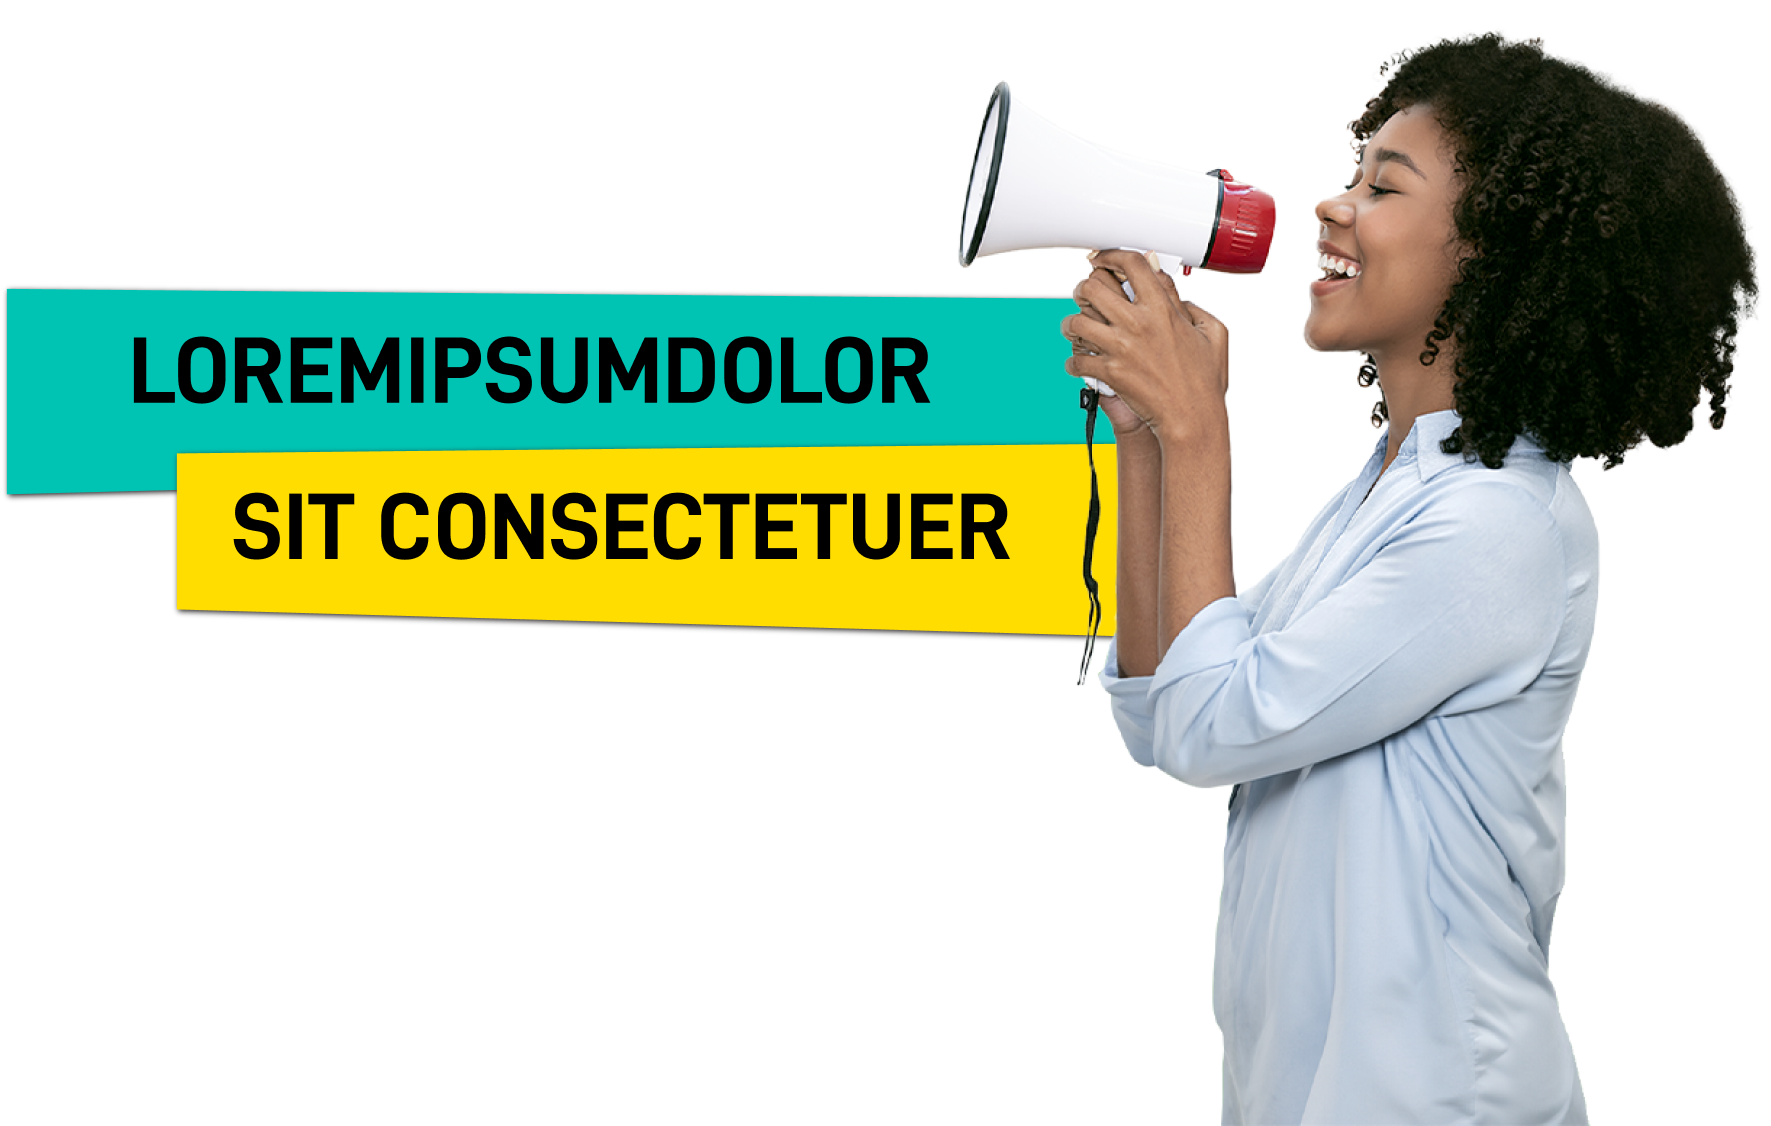
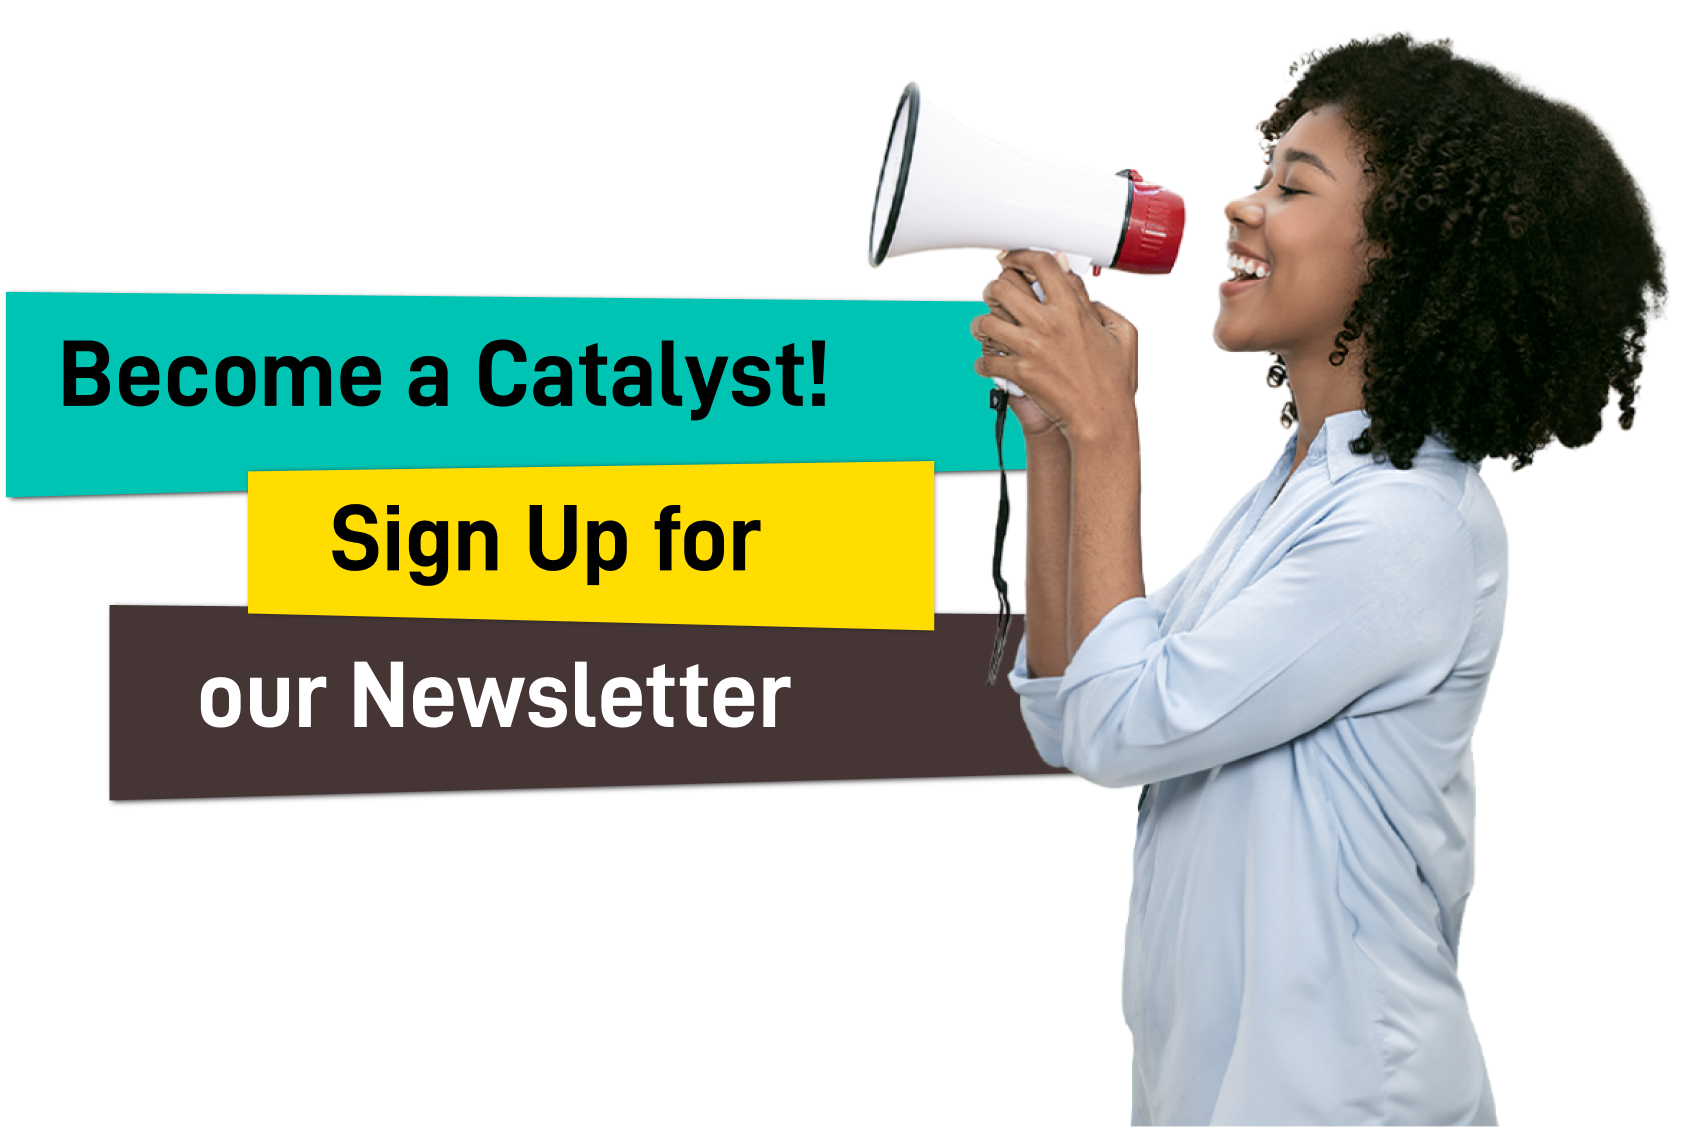
landing page clean-up

diff --git a/src/components/TheLanding.vue b/src/components/TheLanding.vue
@@ -3,34 +3,28 @@
     <main>
       <section
         id="mission"
-        class="pb-10 px-20 bg-[#943700] bg-cover bg-center relative overflow-hidden"
+        class="pb-10 px-20 bg-brown-primary bg-cover bg-center relative overflow-hidden"
       >
-        <div class="mx-auto">
+        <div class="">
           <img
-            src="@/assets/images/Bold_Unapologetic_Africaled.png"
+            src="@/assets/images/Catalyst.svg"
             alt="Title Image"
             class="block relative px-4 py-2 z-10"
           />
         </div>
-        <!-- <div class="">
-          <img
-            src="@/assets/images/Bold_Unapologetic_Africaled.png"
-            alt="Title Image"
-            class="block relative px-4 py-2 z-10"
-          />
-        </div> -->
-        <div class="flex justify-center my-8">
-          <div class="relative bg-white shadow-md rounded-md p-8 max-w-2xl">
-            <p class="font-inter text-xl font-normal leading-snug px-4 py-2 text-justify">
-              <span class="font-bold text-red-500">CATALYSTS:</span> An Africa-led alliance
-              connecting and amplifying African voices and efforts towards universal abortion rights
-              and quality abortion care for all.
+        <div class="flex 7xl:justify-center my-8">
+          <div class="relative">
+            <p
+              class="font-inter text-6xl font-normal leading-snug px-4 py-2 text-white text-center"
+            >
+              An Africa-led alliance connecting and amplifying African voices and efforts towards
+              universal abortion rights and quality abortion care for all.
             </p>
           </div>
         </div>
 
         <!-- Home page video container -->
-        <div class="max-w-5xl mx-auto">
+        <div class="">
           <img
             src="@/assets/images/home_video.png"
             alt="Catalyst Video Animation"
@@ -40,7 +34,7 @@
       </section>
       <!-- Who we are -->
       <section
-        class="relative pb-10 px-20 flex flex-col justify-center items-center bg-[url('@/assets/images/who-we-are-bg.png')] bg-cover bg-center"
+        class="relative pb-10 flex flex-col justify-center bg-[url('@/assets/images/who-we-are-bg.png')] bg-cover bg-center"
       >
         <div class="">
           <!-- ReusableSvg component -->
@@ -56,9 +50,9 @@
           />
         </div>
 
-        <div class="h-full pt-10 p-4">
+        <div class="h-full pt-10 p-4 md:px-20">
           <div
-            class="bg-white bg-opacity-60 p-8 rounded-lg shadow-lg md:w-9/12 h-96 overflow-y-auto relative mx-auto"
+            class="bg-white bg-opacity-60 p-8 rounded-lg shadow-lg h-96 overflow-y-auto relative mx-auto"
           >
             <!-- bg-opacity-50 makes the background slightly transparent -->
             <p class="text-lg font-normal leading-snug px-2 md:px-4 text-justify">
@@ -100,9 +94,9 @@
       <!-- <div class="bg-black"> -->
       <div class="bg-[#FF5F00]">
         <section
-          class="pb-10 px-20 bg-[url('@/assets/images/vector_orange.svg')] bg-cover bg-center relative overflow-hidden"
+          class="pb-10 bg-[url('@/assets/images/vector_orange.svg')] bg-cover bg-center relative overflow-hidden"
         >
-          <div class="px-4">
+          <div class="">
             <!-- ReusableSvg component -->
             <RectangleSvg
               fill="black"
@@ -110,20 +104,20 @@
               height="105"
               viewBox="0 0 360 105"
               :path="path2"
-              text="JOIN US"
+              text="Join Us"
               textFill="white"
               class=""
             />
           </div>
 
-          <div class="h-full">
+          <div class="h-full px-20">
             <img src="@/assets/images/magaphone.png" />
           </div>
         </section>
       </div>
 
       <section class="relative pb-10 px-20 bg-brown-primary overflow-hidden">
-        <div class="px-4">
+        <div class="">
           <!-- ReusableSvg component -->
           <div class="div">
             <img
